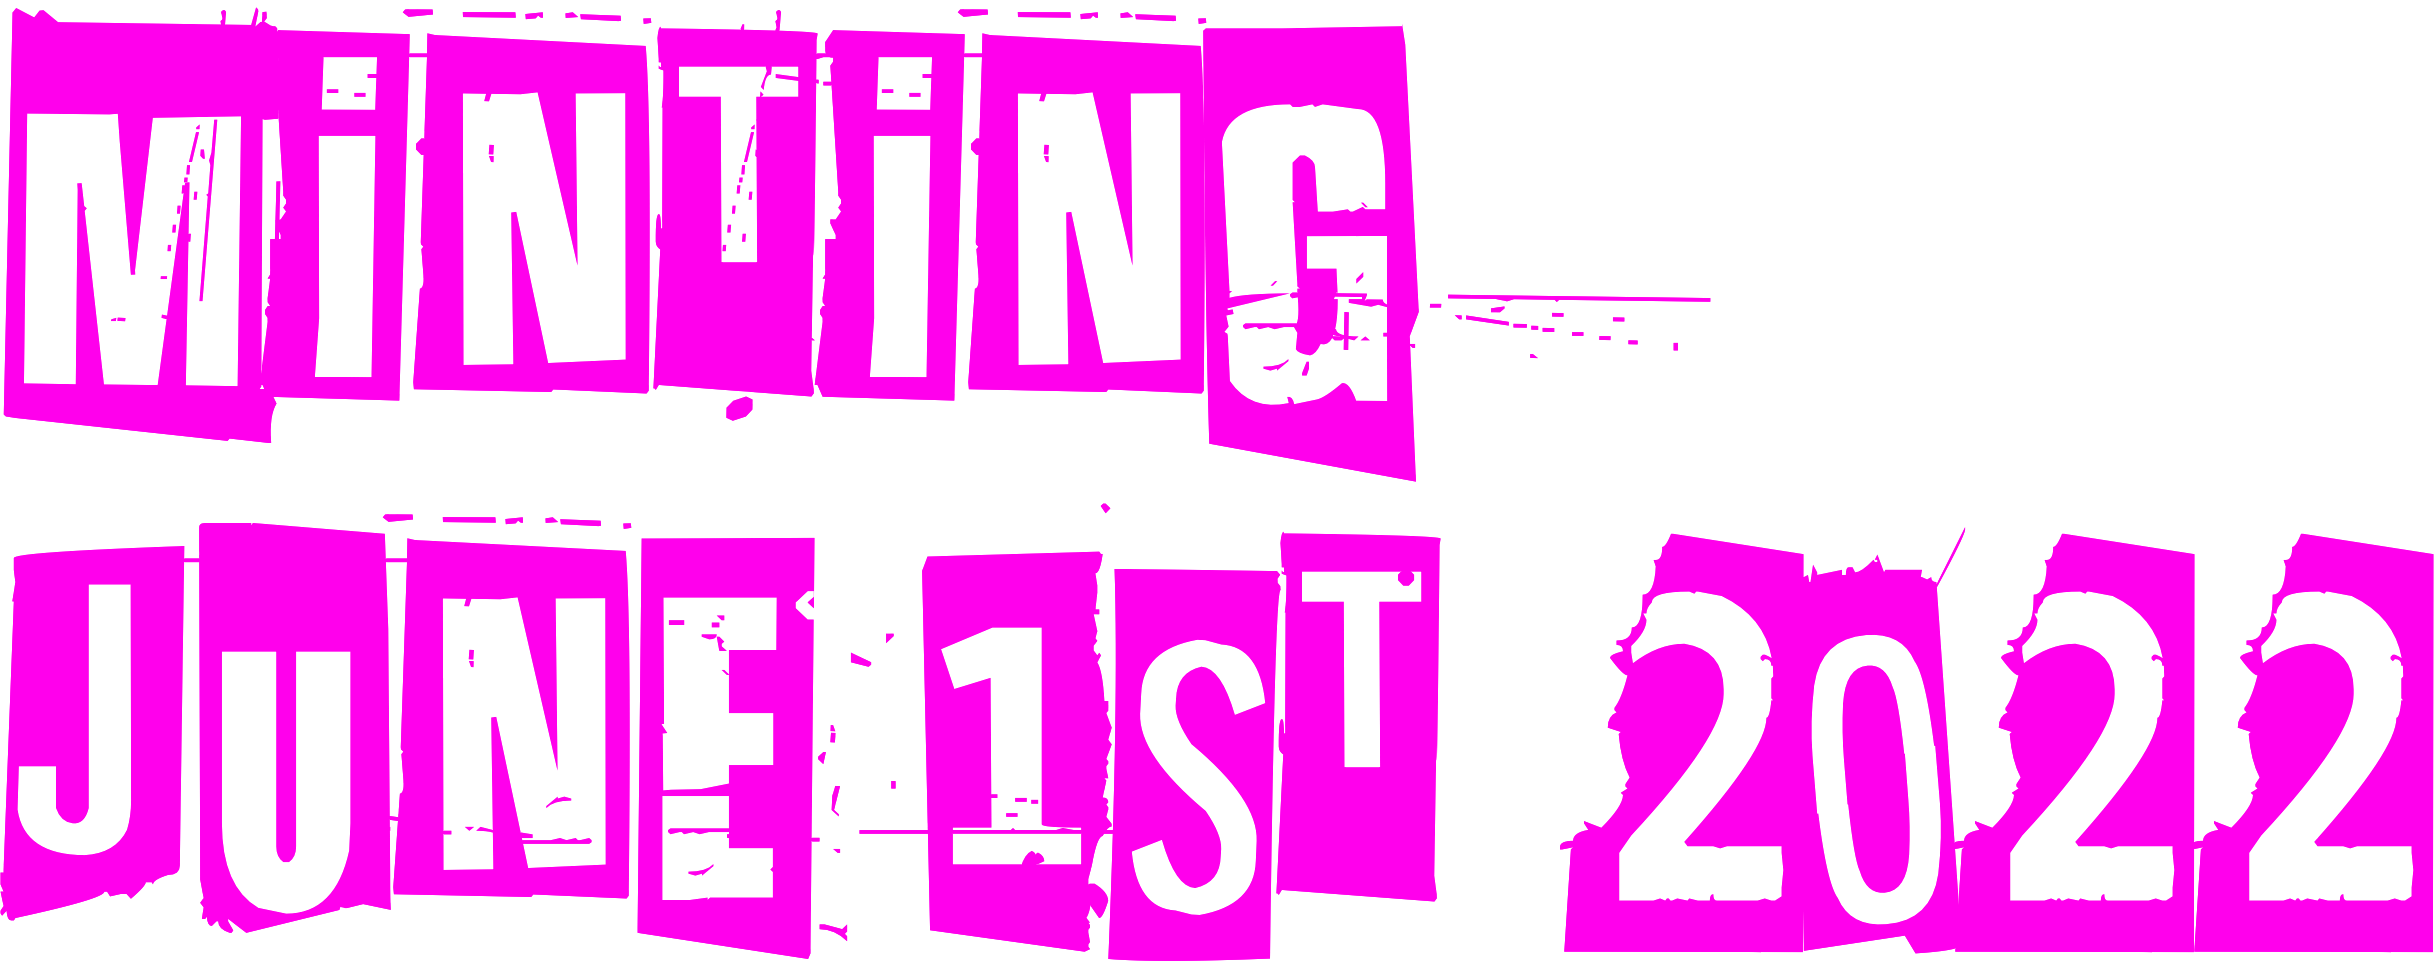
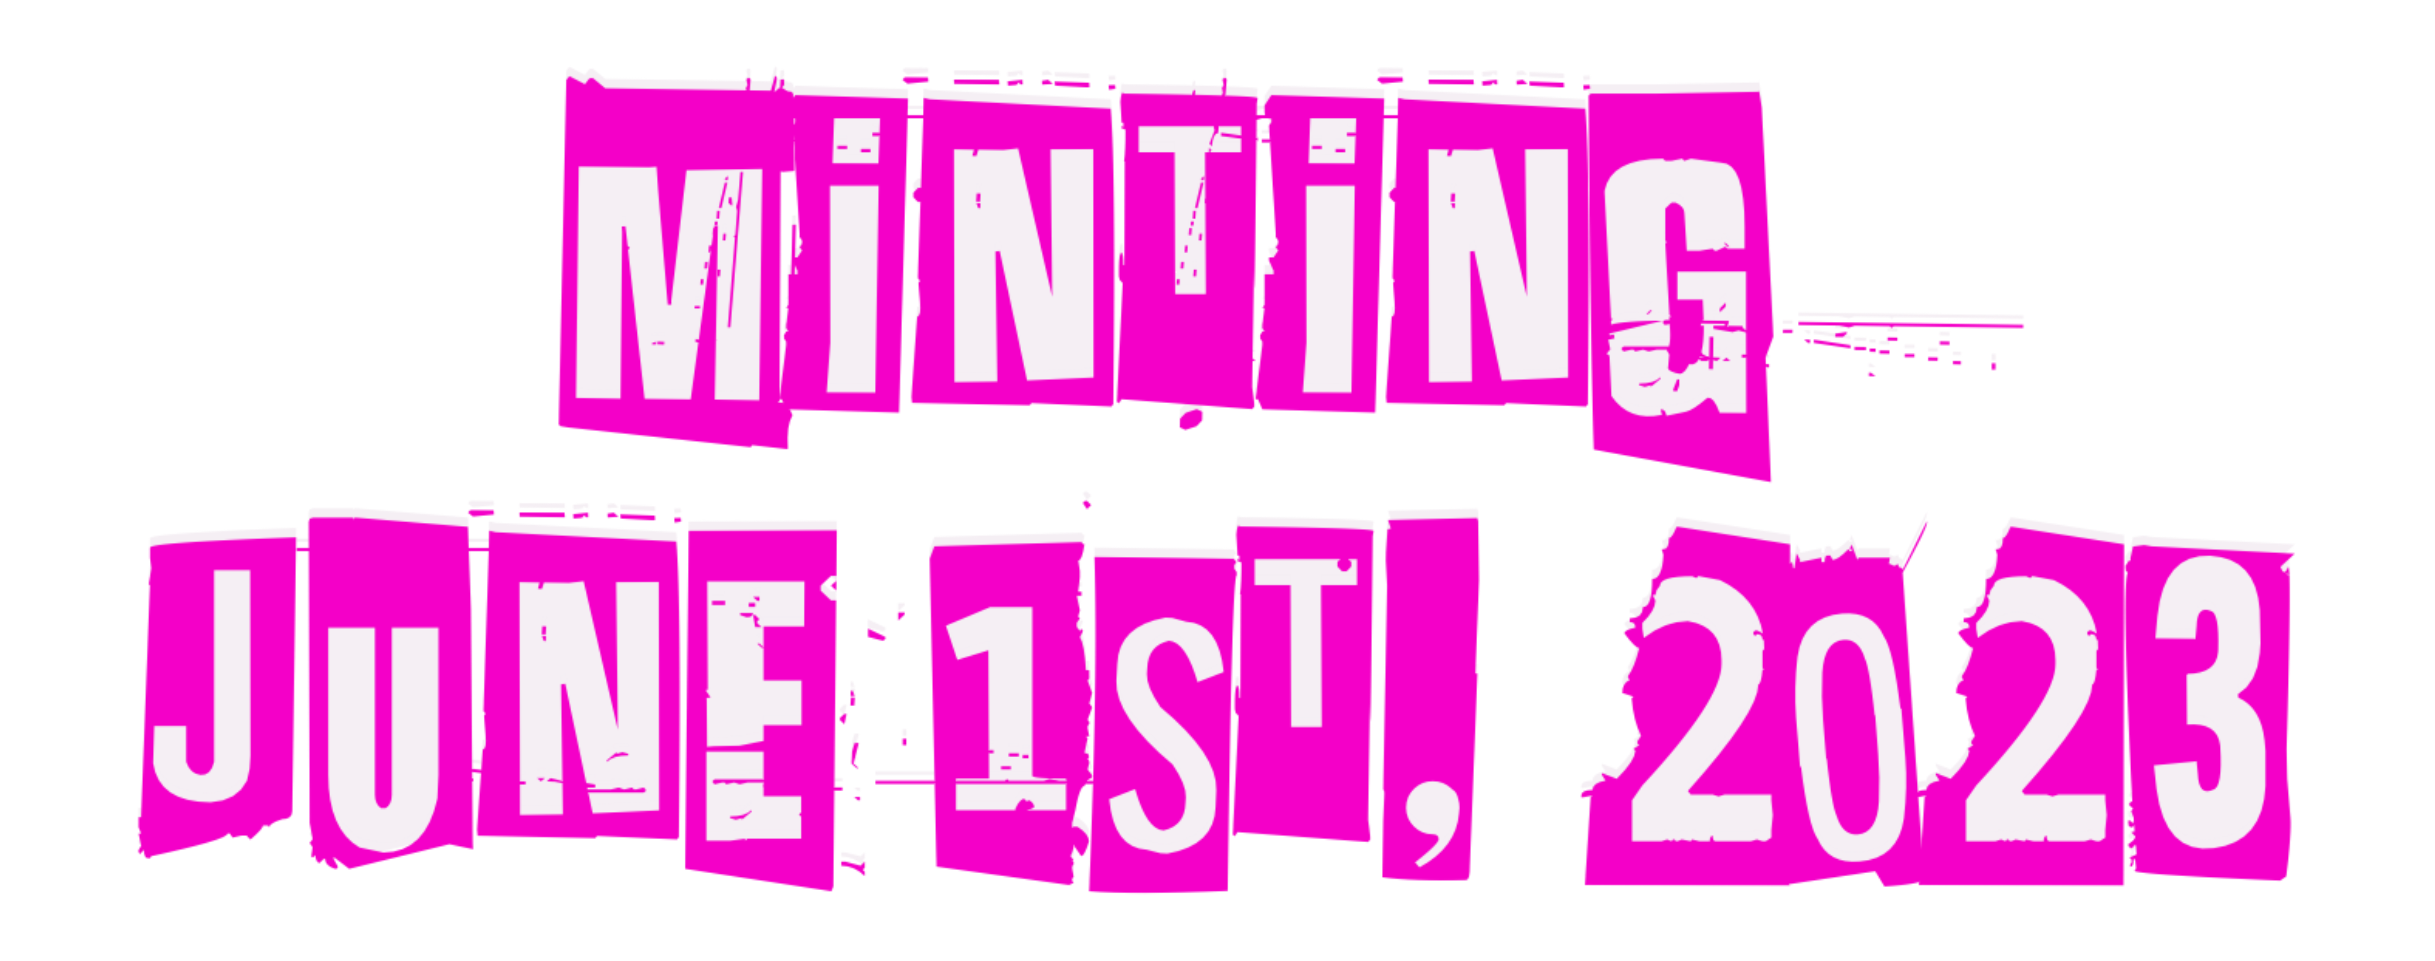
Final updates

diff --git a/src/headers/MainHeader.js b/src/headers/MainHeader.js
@@ -6,83 +6,86 @@ import ImgH from "../Components/Imgs/opensea-seeklogo.com.svg";
 function MainHeader() {
   return (
     <>
-    <header className="header_main desktop_header">
-      <div className="container">
-        <div className="header_inner">
-          <div className="header_flex">
-            <div className="header_menu header_menu1">
+      <header className="header_main desktop_header">
+        <div className="container">
+          <div className="header_inner">
+            <div className="header_flex">
+              <div className="header_menu header_menu1">
+                <ul>
+                  <li>
+                    <a href="/#intro">PRIDE PIXIES</a>
+                  </li>
+                  <li>
+                    <a href="/#roadmap">ROADMAP</a>
+                  </li>
+                </ul>
+              </div>
+              <div className="header_logo">
+                <a href="/" className="heder_logo">
+                  <img className="hand" src="img/footer_logo.gif" alt="logo" />
+                </a>
+              </div>
+              <div className="header_menu header_menu2">
+                <ul>
+                  <li>
+                    <a href="/#benefits" className="mr-2">
+                      ABOUT US
+                    </a>
+                  </li>{" "}
+                  <li>
+                    <a href="/#faq" className="mr-4">
+                      FAQ
+                    </a>
+                  </li>
+                </ul>
+              </div>
+            </div>
+            <div className="social_menu">
               <ul>
                 <li>
-                  <a href="#intro">PRIDE PIXIES</a>
+                  <a href="https://twitter.com/PridePixies_NFT" target="_blank">
+                    <i class="fa-brands fa-twitter  IconsH"></i>
+                  </a>
                 </li>
                 <li>
-                  <a href="#roadmap">ROADMAP</a>
+                  <a href="https://discord.gg/bpCeSAMnBT" target="_blank">
+                    <i class="fa-brands fa-discord IconsH"></i>
+                  </a>
+                </li>
+                <li>
+                  <a
+                    href="https://www.facebook.com/PridePixies/"
+                    target="_blank"
+                  >
+                    <i class="fa-brands fa-facebook  IconsH"></i>
+                  </a>
+                </li>
+                <li>
+                  <a
+                    href="https://www.instagram.com/pridepixiesnft "
+                    target="_blank"
+                  >
+                    <i class="fa-brands fa-instagram  IconsH"></i>
+                  </a>
+                </li>
+                <li>
+                  <a
+                    href="https://opensea.io/collection/pride-pixies"
+                    target="_blank"
+                  >
+                    <LazyLoadImage
+                      src={ImgH}
+                      className="seadbtn w-50 px-0"
+                      title=""
+                      alt=""
+                    />
+                  </a>
                 </li>
               </ul>
             </div>
-            <div className="header_logo">
-              <a href="/" className="heder_logo">
-                <img className="hand" src="img/footer_logo.gif" alt="logo" />
-              </a>
-            </div>
-            <div className="header_menu header_menu2">
-              <ul>
-                <li>
-                  <a href="#benefits" className="mr-2">
-                    ABOUT US
-                  </a>
-                </li>{" "}
-                <li>
-                  <a href="#faq" className="mr-4">
-                    FAQ
-                  </a>
-                </li>
-              </ul>
-            </div>
-          </div>
-          <div className="social_menu">
-            <ul>
-              <li>
-                <a href="https://twitter.com/PridePixies_NFT" target="_blank">
-                  <i class="fa-brands fa-twitter  IconsH"></i>
-                </a>
-              </li>
-              <li>
-                <a href="https://discord.gg/bpCeSAMnBT" target="_blank">
-                  <i class="fa-brands fa-discord IconsH"></i>
-                </a>
-              </li>
-              <li>
-                <a href="https://www.facebook.com/PridePixies/" target="_blank">
-                  <i class="fa-brands fa-facebook  IconsH"></i>
-                </a>
-              </li>
-              <li>
-                <a
-                  href="https://www.instagram.com/pridepixiesnft "
-                  target="_blank"
-                >
-                  <i class="fa-brands fa-instagram  IconsH"></i>
-                </a>
-              </li>
-              <li>
-                <a
-                  href="https://opensea.io/collection/pride-pixies"
-                  target="_blank"
-                >
-                  <LazyLoadImage
-                    src={ImgH}
-                    className="seadbtn w-50 px-0"
-                    title=""
-                    alt=""
-                  />
-                </a>
-              </li>
-            </ul>
           </div>
         </div>
-      </div>
-    </header>
+      </header>
     </>
   );
 }

diff --git a/src/sections/FAQ.js b/src/sections/FAQ.js
@@ -64,7 +64,7 @@ const FAQ = () => {
             <div className="home_faq_inner">
               <div className="faq_1 ac-title" data-in="#tab3">
                 <h6 className="accordion">
-                  Which blockchain was Pride Pixies NFT created on ?
+                  Which blockchain was Pride Pixies NFT created on?
                 </h6>
                 <div className="panel accordian-para acc-show" id="tab3">
                   <p>
@@ -103,12 +103,14 @@ const FAQ = () => {
                 <div className="panel accordian-para acc-show" id="tab5">
                   <p>
                     You can Mint / Buy a Pride Pixies NFT on our website
-                    https://pridepixies.com/ blicking on the MINT w/ MATIC
-                    button or the MINT w/ debt/credit card button where pre sale
-                    Minting will be $185 and Public sales on secondary market
-                    exchanges such as Opensea, Rarible and Moovmint.io will be
-                    $250 or more, there will only be 10,557 Pride Pixies NFTs
-                    ever to be created.
+                    <a href="https://pridepixies.com/" target="_blank">
+                      https://pridepixies.com/
+                    </a>{" "}
+                    blicking on the MINT w/ MATIC button or the MINT w/
+                    debt/credit card button where pre sale Minting will be $185
+                    and Public sales on secondary market exchanges such as
+                    Opensea, Rarible and Moovmint.io will be $250 or more, there
+                    will only be 10,557 Pride Pixies NFTs ever to be created.
                   </p>
                 </div>
               </div>
@@ -121,7 +123,7 @@ const FAQ = () => {
                 <div className="panel accordian-para acc-show" id="tab6">
                   <p>
                     Pride Pixies NFT will start minting for pre sale on June 1st
-                    during 2022 Pride Month. A public sale will be held 2 weeks
+                    during 2023 Pride Month. A public sale will be held 2 weeks
                     later on secondary market exchanges such as Opensea, Rarible
                     and Moovmint.io will be $250 or more, there will only be
                     10,557 Pride Pixies NFTs ever to be created.
@@ -140,7 +142,7 @@ const FAQ = () => {
                     the NFT to your smart chain wallet such as Coinbase wallet
                     or Metamask wallet. <br />
                     You can buy directly from our website with MATIC crypto
-                    currency but you will nee to self custody by having a
+                    currency but you will need to self custody by having a
                     Coinbase Wallet or a Metamask wallet.
                   </p>
                 </div>
@@ -176,7 +178,12 @@ const FAQ = () => {
                     <br />
                     You can also click on this link below to view our verified
                     contract on the blockchain <br />
-                    https://polygonscan.com/address/0x91E416B22191aa658c2e5D77E8a278f47d103d4f
+                    <a
+                      href="https://polygonscan.com/address/0x91E416B22191aa658c2e5D77E8a278f47d103d4f"
+                      target="_blank"
+                    >
+                      https://polygonscan.com/address/0x91E416B22191aa658c2e5D77E8a278f47d103d4f
+                    </a>
                     <br />
                   </p>
                 </div>

diff --git a/src/App.css b/src/App.css
@@ -253,7 +253,7 @@ body {
   left: 0;
   right: 0;
   margin: 0 auto;
-  z-index: 1 ;
+  z-index: 1;
 }
 .header_flex {
   display: flex;
@@ -1084,7 +1084,15 @@ body {
   background-repeat: no-repeat;
   background-size: cover;
   position: relative;
-  z-index: - 1;
+  /* z-index: -1; */
+}
+.Mint p {
+  font-size: 24px !important;
+  font-weight: 700 !important;
+  font-family: "Poppins" !important;
+}
+.crossmintImg-0-2-2 {
+  display: none;
 }
 .home_faq_flex {
   display: grid;
@@ -3482,8 +3490,6 @@ ul {
   padding: 10px;
 }
 
-
-
 h1 {
   text-align: center;
   font-size: 35px;
@@ -3513,11 +3519,12 @@ h2 {
   transform: translate(-50%, -50%);
   /* background-color: black; */
   color: #fff;
-  z-index: 100 ;
+  z-index: 100;
 }
 
-h2, .box p {
-margin: 0 20px;
+h2,
+.box p {
+  margin: 0 20px;
 }
 
 .close {
@@ -3537,7 +3544,7 @@ margin: 0 20px;
   cursor: pointer;
   text-decoration: none;
 }
-.BoxSha{
+.BoxSha {
   background-color: #1a1a25;
   box-shadow: rgba(0, 0, 0, 0.35) 0px 5px 15px;
   transition: 0.3s;
@@ -3545,29 +3552,28 @@ margin: 0 20px;
 .BoxSha h3 {
   font-size: 21px;
   font-weight: 700;
-  color:  #ff0ddb !important;
+  color: #ff0ddb !important;
 }
-.BoxSha:hover{
+.BoxSha:hover {
   transform: translate(0, -10px);
   box-shadow: rgb(0, 0, 0) 0px 5px 35px;
 }
-.BoxTxt{
+.BoxTxt {
   color: white;
-  font-size: 20px
+  font-size: 20px;
 }
-.Anc{
+.Anc {
   text-decoration: none !important;
 }
-.boxImg{
+.boxImg {
   object-fit: cover;
   min-height: 245px;
 }
-.BlogH{
+.BlogH {
   padding-top: 200px;
 }
 @media only screen and(max-width:600px) {
-  .BlogH{
+  .BlogH {
     font-size: 300px !important;
   }
-  
 }

diff --git a/src/sections/AboutProject.js b/src/sections/AboutProject.js
@@ -27,7 +27,7 @@ const AboutProject = () => {
             {/* </p> */}
             <Mintbtn />
             <CrossmintPayButton
-              className="mx-auto btn"
+              className="mx-auto btn Mint py-2"
               collectionTitle="Pride Pixies NFT"
               collectionDescription="Created by Taylor Diamond-Vizcaino Founder of True Dream Vision who is the first Female, LatinX, LGBTQ+ activist founder in blockchain. The world of Pride Pixies is a community made of 10,557 unique handmade and randomly Generated NFTs. They’re colorful, vibrant, loud and proud. They are the most badass, female-centric, women's empowerment, inclusive & symbolic NFTs. Pride Pixies came to True Dream Vision from childhood. They were the physical and spiritual embodiment of Rebels. Thinking about our ideal perception of women in society is what everything these Pixies are protesting. When you see a Pride Pixie you better believe she/he/they/them agrees too. True Dream Vision makes powerful NFTs to support the cause focused on female empowerment, LGBTQ+, and Human Rights activism. We are donating 5% of our profits to Human Rights Campaign Foundation (HRC.org) and well as (Ofrezco.org) to support education for underprivileged children in 3rd world countries and women in tech."
               collectionPhoto="https://lh3.googleusercontent.com/TE4XllN-flrFqJ9vpBu8b2blQVSJ5JUk-o3yPLFWwS0mooJm0fHwMmkwTDVxmvObbKECRh4YLK5OMt1q4n6nGpz-yZ24snQc2xWjnw=s1300"

diff --git a/src/sections/RoadMap.js b/src/sections/RoadMap.js
@@ -13,7 +13,7 @@ const RoadMap = () => {
           {/* <p>
             <em>ROAD</em> MAP
           </p> */}
-          <p>Our plans moving forward into 2022.</p>
+          <p>Our plans moving forward into 2023.</p>
         </div>
         <div className="home_road_map_flex">
           <div className="home_road_map_inner">
@@ -82,7 +82,7 @@ const RoadMap = () => {
               <div className="home_road_map_text">
                 <p>
                   <span className="pink">Startup:</span> Pride Pixie Pre Sale
-                  and Minting starting June 1st 2022
+                  and Minting starting June 1st 2023
                 </p>
               </div>
             </div>
@@ -151,7 +151,7 @@ const RoadMap = () => {
                 <br />
                 <p>
                   <span className="pink">Startup:</span> Pride Pixie Pre Sale
-                  and Minting starting June 1st 2022
+                  and Minting starting June 1st 2023
                 </p>
                 <br />
                 <p>

diff --git a/src/sections/ProjectBenifits.js b/src/sections/ProjectBenifits.js
@@ -56,7 +56,7 @@ const ProjectBenefits = () => {
               <h3>HOW TO BUY</h3>
             </div>
             <p>
-              Pride Pixies will be minting starting June 1st, 2022 (PRIDE Month!
+              Pride Pixies will be minting starting June 1st, 2023 (PRIDE Month!
               Yay!) but don’t worry, when it ends you can still get one on
               Opensea or Moovmint. While our Pride Pixies may be art, they’re
               worth so much more. Always remember, the price for NFTS may go up

diff --git a/public/index.html b/public/index.html
@@ -259,8 +259,7 @@
 
           addEvent(document, "mouseout", function (evt) {
             if (evt.toElement == null && evt.relatedTarget == null) {
-              // $(".lightbox").slideDown();
-              $("#myModal").modal("show");
+              // $("#myModal").modal("show");
             }
           });
         }, 1000);
